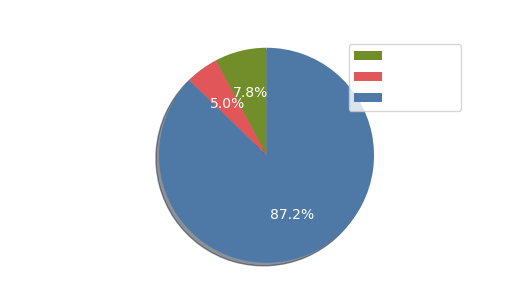
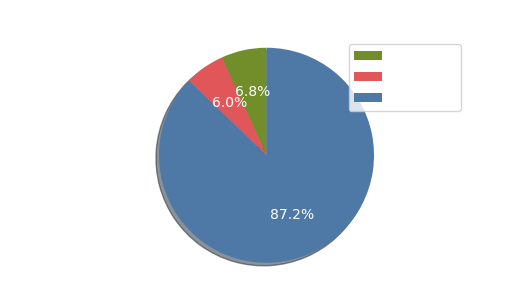
State change of the Sentiment Analysis graph along with code refactoring

Changed region(s): [[0.4, 0.1753, 0.5231, 0.4383], [0.4923, 0.4383, 0.5231, 0.4675]]

diff --git a/src/com/Main.java b/src/com/Main.java
@@ -6,60 +6,28 @@ import javax.swing.border.Border;
 public class Main {
     public static void main(String[] args) {
 
-        Company Adobe= new Company("Adobe", "Adobe.png"),
-                GS = new Company("GoldmanSachs", "GS.png"),
-                DELL = new Company("Dell", "HCL.png"),
-                Schindler= new Company("Schindler", "Schindler.png"),
-                MS= new Company("Morgan Stanley", "MS.jpeg");
+        Company Adobe= new Company("Adobe", "Adobe.png", "@Adobe_pie.png"),
+                GS = new Company("GoldmanSachs", "GS.png", "@GoldmanSachs_pie.png"),
+                DELL = new Company("Dell", "HCL.png", "@Dell_pie.png"),
+                Schindler= new Company("Schindler", "Schindler.png", "@SchindlerGroup_pie.png"),
+                MS= new Company("Morgan Stanley", "MS.jpeg", "@MorganStanley_pie.png");
 
-        State.CurrentLabel = Adobe;
-        JPanel bluePanel = new JPanel();
-        bluePanel.setBackground(Color.decode("#14004F"));
-        bluePanel.setBounds(0, 0, 350,770 );
-        bluePanel.setLayout(null);
-        bluePanel.add(Adobe);
-        bluePanel.add(GS);
-        bluePanel.add(DELL);
-        bluePanel.add(Schindler);
-        bluePanel.add(MS);
-
+        State.currentCompany = Adobe;
         Adobe.isSelected = true;
         Adobe.changeColor();
 
+        NavigationPanel bluePanel = new NavigationPanel(Adobe, GS, DELL, Schindler, MS);
 
[1 lines of base64/hex data omitted]
-        ImageIcon icon = new ImageIcon(directory + "@Dell_pie.png");
-        JLabel img = new JLabel();
-        img.setBounds(100,200, 700, 500);
-        img.setIcon(icon);
+
 
         Border black = BorderFactory.createLineBorder(Color.white);
-        bluePanel.setBorder(black);
 
         JPanel mainPanel = new JPanel();
         mainPanel.setBounds(350, 0, 1050, 770);
         mainPanel.setLayout(null);
         mainPanel.setBackground(Color.decode("#14004F"));
 
-        JLabel logo = new JLabel("STOCK MARKET"), logoBot = new JLabel("ANALYSIS");
-        logo.setBounds(75, 10, 300, 100);
-        logo.setFont(new Font("Raleway", Font.BOLD, 30));
-        logo.setForeground(Color.white);
-
-        logoBot.setBounds(75, 40, 300, 200);
-        logoBot.setForeground(Color.orange);
-        logoBot.setFont(new Font("Raleway", Font.BOLD, 30));
-
-        ImageIcon logoIcon = new ImageIcon( "/Users/prathamaggarwal/desktop/college/CSD213/Swing/static/Logo.jpeg");
-        Image im = logoIcon.getImage();
-        im = im.getScaledInstance(200, 100, Image.SCALE_SMOOTH);
-        logoIcon = new ImageIcon(im);
-        logoBot.setIcon(logoIcon);
-        logoBot.setHorizontalTextPosition(JLabel.CENTER);
-        logoBot.setVerticalTextPosition(JLabel.TOP);
-
-        bluePanel.add(logo);
-        bluePanel.add(logoBot);
 
         JPanel graph = new JPanel();
         graph.setBounds(20, 100, 600, 350);
@@ -67,7 +35,7 @@ public class Main {
         graph.setBackground(Color.decode("#14004F"));
 
         mainPanel.add(graph);
-        mainPanel.add(new SentimentPanel("/Users/prathamaggarwal/desktop/college/CSD213/Swing/src/pythonProcess/@Dell_pie.png"));
+        mainPanel.add(new SentimentPanel("/Users/prathamaggarwal/desktop/college/CSD213/Swing/src/pythonProcess/@Adobe_pie.png"));
         MyFrame frame = new MyFrame(bluePanel, mainPanel);
     }
 }

diff --git a/src/com/Labels.java b/src/com/Labels.java
@@ -2,50 +2,45 @@ package com;
 
 import javax.swing.*;
 import java.awt.*;
-import java.awt.event.MouseEvent;
 
-public class Labels extends JButton{
-    private static int counter = 0;
-    private final String colorActive = "#002481",
-            colorPassive = "#001A5B",
-            directory = "/Users/prathamaggarwal/desktop/college/CSD213/Swing/static/";
+public class Labels extends JButton {
+	private static int counter = 0;
+	private final String colorActive = "#002481",
+			colorPassive = "#001A5B",
+			directory = "/Users/prathamaggarwal/desktop/college/CSD213/Swing/static/";
 
-    boolean isSelected = false, hover = false;
+	boolean isSelected = false, hover = false;
+
+	Labels(String text, String URL) {
+		ImageIcon icon = new ImageIcon(directory + URL);
+		Image img = icon.getImage();
+		img = img.getScaledInstance(60, 20, Image.SCALE_SMOOTH);
+		icon = new ImageIcon(img);
+
+		this.setBounds(1, 250 + counter * 80, 348, 70);
+		this.setIcon(icon);
+		this.setIconTextGap(20);
+		this.setText(text);
+		this.setFont(new Font("Helvetica", Font.BOLD, 28));
+		this.setOpaque(true);
+		this.setBorderPainted(false);
+		this.setBackground(Color.decode(colorPassive));
+		this.setForeground(Color.white);
+		this.setHorizontalAlignment(JButton.LEFT);
+		this.setForeground(Color.decode("#C2BFBF"));
+		counter++;
+
+	}
+
+	public void changeColor() {
+		if (isSelected || hover) {
+			this.setBackground(Color.decode(colorActive));
+			this.setForeground(Color.white);
+		} else {
+			this.setBackground(Color.decode(colorPassive));
+			this.setForeground(Color.decode("#C2BFBF"));
+		}
+	}
 
 
-    Labels(String text, String URL){
-        ImageIcon icon = new ImageIcon(directory + URL);
-        Image img = icon.getImage();
-        img = img.getScaledInstance(60, 20, Image.SCALE_SMOOTH);
-        icon = new ImageIcon(img);
-
-        this.setBounds(1, 250 + counter * 80, 348, 70);
-        this.setIcon(icon);
-        this.setIconTextGap(20);
-        this.setText(text);
-        this.setFont(new Font("Helvetica", Font.BOLD, 28));
-        this.setOpaque(true);
-        this.setBorderPainted(false);
-        this.setBackground(Color.decode(colorPassive));
-        this.setForeground(Color.white);
-        this.setHorizontalAlignment(JButton.LEFT);
-        this.setForeground(Color.decode("#C2BFBF"));
-        counter++;
-
-    }
-
-    public void changeColor(){
-        if(isSelected || hover) {
-            this.setBackground(Color.decode(colorActive));
-            this.setForeground(Color.white);
-        }
-        else {
-            this.setBackground(Color.decode(colorPassive));
-            this.setForeground(Color.decode("#C2BFBF"));
-        }
-    }
-
-    protected void changeState(){
-        State.setActive(this);
-    }
 }

diff --git a/src/pythonProcess/Env.java b/src/pythonProcess/Env.java
@@ -1,0 +1,63 @@
+package pythonProcess;
+
+import java.io.BufferedReader;
+import java.io.File;
+import java.io.IOException;
+import java.io.InputStreamReader;
+
+public class Env {
+    public static void main(String args[]) throws Exception {
+        ProcessBuilder processBuilder = new ProcessBuilder();
+        // -- Linux --
+
+        // Run a shell command
+        processBuilder.command("bash", "-c", "conda activate javaproject");
+
+        String command[] = {"python", "predict.py", "--company_name MS"};
+        //ProcessBuilder env = new ProcessBuilder(activateEnvironment);
+        ProcessBuilder pb = new ProcessBuilder(command);
[1 lines of base64/hex data omitted]
+
+        try {
+
+            Process process = processBuilder.start();
+
+            StringBuilder output = new StringBuilder();
+
+            BufferedReader reader = new BufferedReader(
+                    new InputStreamReader(process.getInputStream()));
+
+            String line;
+            while ((line = reader.readLine()) != null) {
+                output.append(line + "\n");
+            }
+
+            int exitVal = process.waitFor();
+            if (exitVal == 0) {
+                System.out.println("Success!");
+                System.out.println(output);
+                System.exit(0);
+            } else {
+                //abnormal...
+            }
+
+        } catch (IOException e) {
+            e.printStackTrace();
+        } catch (InterruptedException e) {
+            e.printStackTrace();
+        }
+        try {
+            //Process envAc = env.start();
+            Process p = pb.start();
+            BufferedReader reader = new BufferedReader(new InputStreamReader(p.getInputStream()));
+            String line;
+            while ((line = reader.readLine()) != null) {
+                System.out.println(line);
+            }
+            int exitCode = p.waitFor();
+            System.out.println("Exited with code" + exitCode);
+        } catch (Exception e) {
+            e.printStackTrace();
+        }
+    }
+}

diff --git a/src/com/NavigationPanel.java b/src/com/NavigationPanel.java
@@ -1,0 +1,36 @@
+package com;
+
+import javax.swing.*;
+import javax.swing.border.Border;
+import java.awt.*;
+
+public class NavigationPanel extends JPanel {
+    NavigationPanel(JButton... companies) {
+        this.setBackground(Color.decode("#14004F"));
+        this.setBounds(0, 0, 350, 770);
+        this.setLayout(null);
+        this.setBorder((Border) BorderFactory.createLineBorder(Color.white));
+        for (JButton c : companies)
+            this.add(c);
+
+        JLabel logo = new JLabel("STOCK MARKET"), logoBot = new JLabel("ANALYSIS");
+        logo.setBounds(75, 10, 300, 100);
+        logo.setFont(new Font("Raleway", Font.BOLD, 30));
+        logo.setForeground(Color.white);
+
+        logoBot.setBounds(75, 40, 300, 200);
+        logoBot.setForeground(Color.orange);
+        logoBot.setFont(new Font("Raleway", Font.BOLD, 30));
+
+        ImageIcon logoIcon = new ImageIcon( "/Users/prathamaggarwal/desktop/college/CSD213/Swing/static/Logo.jpeg");
+        Image im = logoIcon.getImage();
+        im = im.getScaledInstance(200, 100, Image.SCALE_SMOOTH);
+        logoIcon = new ImageIcon(im);
+        logoBot.setIcon(logoIcon);
+        logoBot.setHorizontalTextPosition(JLabel.CENTER);
+        logoBot.setVerticalTextPosition(JLabel.TOP);
+
+        this.add(logo);
+        this.add(logoBot);
+    }
+}

diff --git a/src/pythonProcess/Prces.java b/src/pythonProcess/Prces.java
@@ -4,11 +4,14 @@ import java.io.*;
 public class Prces {
     public static void main(String args[]) throws Exception {
         String cmds[] = {"@Dell", "@HCL", "@GoldmanSachs", "@TATA", "@Wipro"};
-        for(String company: cmds) {
-            String command[] = {"python", "A.py", "--company_handle", cmds[0]};
+        //for(String company: cmds) {
+            //String activateEnvironment[] = {"conda", "activate", "javaproject"};
+            String command[] = {"python", "predict.py", "--company_name","MS"};
+            //ProcessBuilder env = new ProcessBuilder(activateEnvironment);
             ProcessBuilder pb = new ProcessBuilder(command);
[1 lines of base64/hex data omitted]
             try {
+                //Process envAc = env.start();
                 Process p = pb.start();
                 BufferedReader reader = new BufferedReader(new InputStreamReader(p.getInputStream()));
                 String line;
@@ -20,6 +23,6 @@ public class Prces {
             } catch (Exception e) {
                 e.printStackTrace();
             }
-        }
+        //}
     }
 }

diff --git a/src/com/Company.java b/src/com/Company.java
@@ -1,14 +1,20 @@
 package com;
 
+import javax.swing.*;
+import java.awt.*;
 import java.awt.event.MouseAdapter;
 import java.awt.event.MouseEvent;
 
 public class Company extends  Labels{
+    private String sentimentGraphUrl;
[1 lines of base64/hex data omitted]
+    private ImageIcon pieGraph;
     MouseAdapter m = new MouseAdapter() {
         @Override
         public void mouseReleased(MouseEvent e) {
             super.mouseReleased(e);
             changeState();
+            SentimentPanel.changeImage(pieGraph);
         }
 
         @Override
@@ -26,8 +32,17 @@ public class Company extends  Labels{
         }
     };
 
-    Company(String Text, String URL){
+    Company(String Text, String URL, String sentimentGraphUrl){
         super(Text, URL);
+        this.sentimentGraphUrl = sentimentGraphUrl;
         this.addMouseListener(m);
+        pieGraph = new ImageIcon(dir + sentimentGraphUrl);
+    }
+
+    public ImageIcon getPieGraph(){
+        return pieGraph;
+    }
+    protected void changeState() {
+        State.setActive(this);
     }
 }

diff --git a/src/com/State.java b/src/com/State.java
@@ -1,13 +1,13 @@
 package com;
 
 public class State {
-    public static Labels CurrentLabel;
-    public static void setActive(Labels newLabel) {
-        System.out.println("StateChange " + newLabel.getText());
-        CurrentLabel.isSelected =false;
-        newLabel.isSelected = true;
-        CurrentLabel.changeColor();
-        newLabel.changeColor();
-        CurrentLabel = newLabel;
+    public static Company currentCompany;
+    public static void setActive(Company newCompany){
+        System.out.println("StateChange " + newCompany.getText());
+        currentCompany.isSelected = false;
+        newCompany.isSelected = true;
+        currentCompany.changeColor();
+        newCompany.changeColor();
+        currentCompany= newCompany;
     }
 }

diff --git a/src/com/SentimentPanel.java b/src/com/SentimentPanel.java
@@ -6,10 +6,15 @@ import java.awt.*;
 
 public class SentimentPanel extends JPanel {
     static Border black = BorderFactory.createLineBorder(Color.white);
+    static JLabel container;
+
+    public static void changeImage(ImageIcon graph){
+       container.setIcon(graph);
+    }
 
     SentimentPanel(String graphDir){
         ImageIcon graph = new ImageIcon(graphDir);
-        JLabel container = new JLabel(graph);
+        container = new JLabel(graph);
         container.setBounds(0, 0, 400, 300);
         container.setText("Sentiment Analysis");
         container.setForeground(Color.white);

diff --git a/src/com/Miscellaneous/Logo.java b/src/com/Miscellaneous/Logo.java
@@ -1,0 +1,15 @@
+package com.Miscellaneous;
+
+import javax.swing.*;
+import java.awt.*;
+
+public class Logo extends ImageIcon {
+    Logo(String URL){
+        super(URL);
+    }
+    Logo(int height, int width, String URL){
+        ImageIcon icon = new ImageIcon(URL);
+        Image im = icon.getImage();
+        im = im.getScaledInstance(height, width, Image.SCALE_SMOOTH);
+    }
+}

diff --git a/src/pythonProcess/predict.py b/src/pythonProcess/predict.py
@@ -178,3 +178,5 @@ if __name__=='__main__':
     parser.add_argument('--company_name', default='', help='Enter the company name')
     args = parser.parse_args()
     prediction(args.company_name)
+    # print(args.company_name)
+
